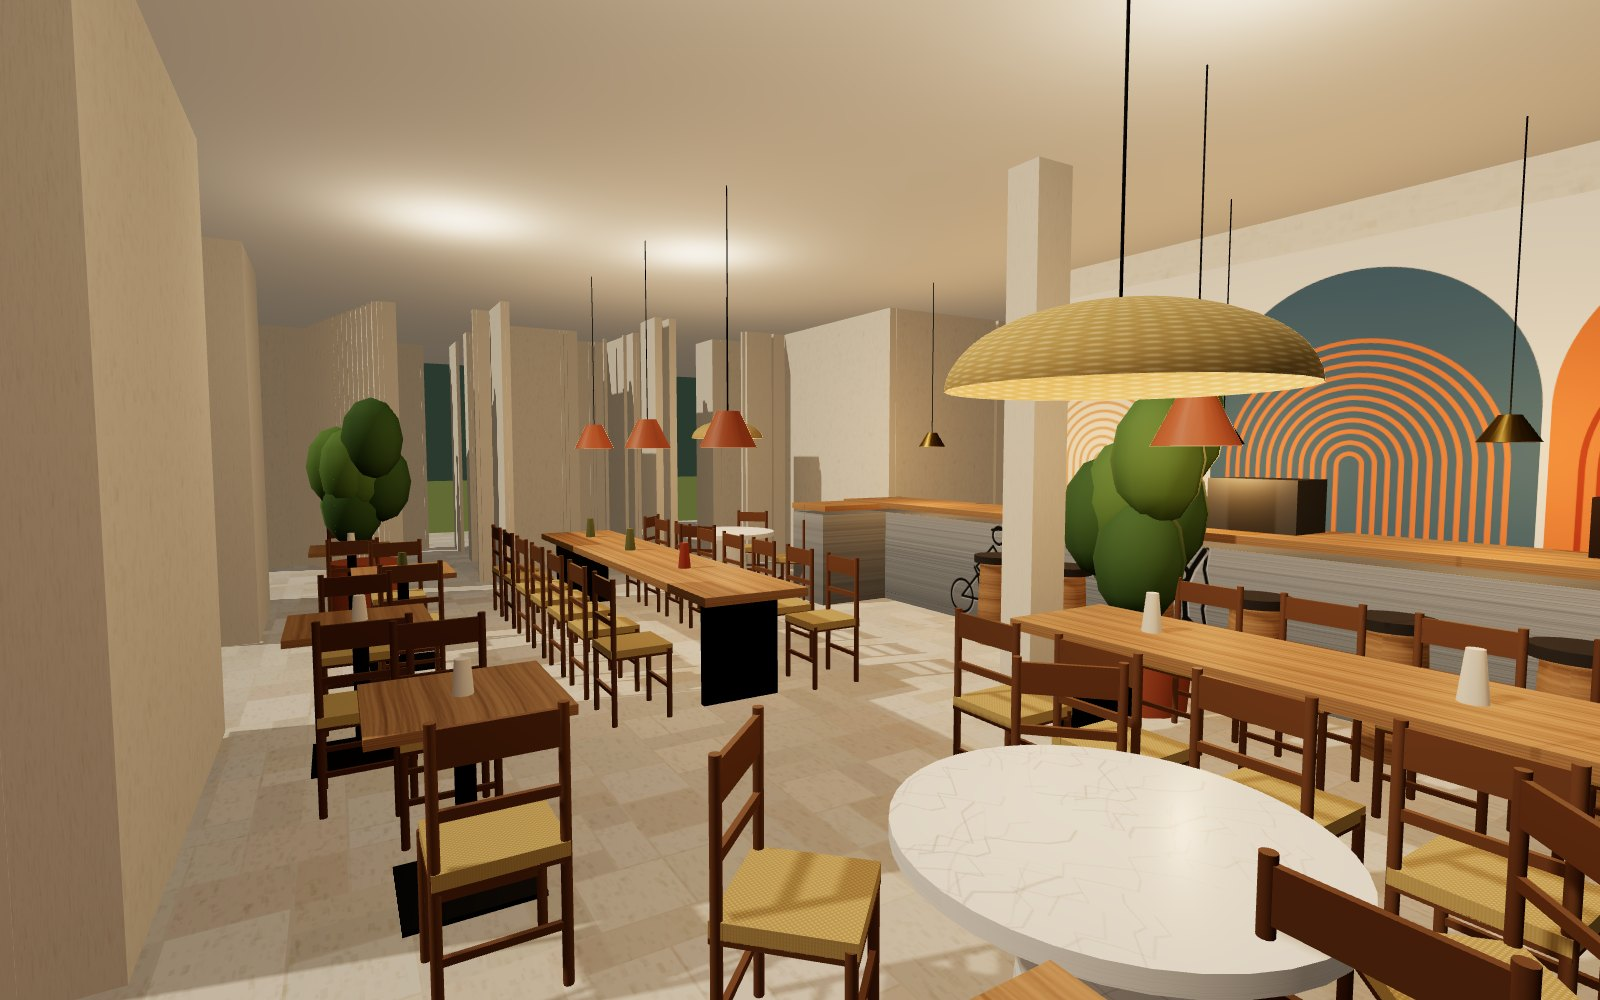
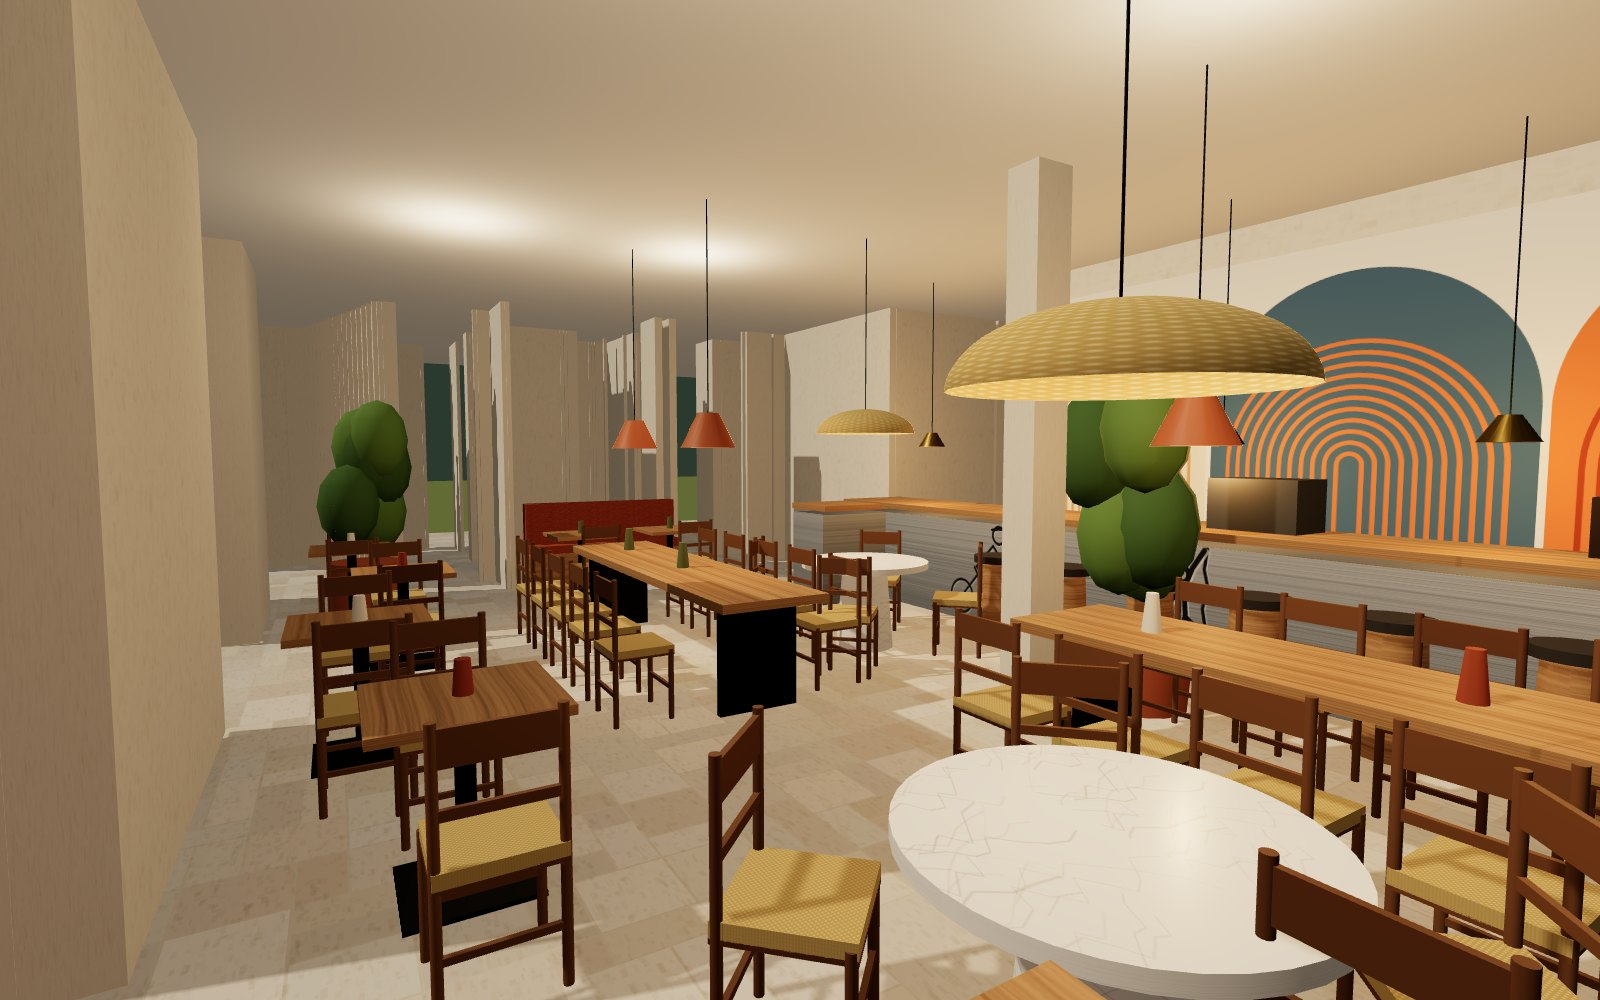
Sala: seconda panca in velluto terracotta sul muro ovest
Claude-Session: https://claude.ai/code/session_01QZXxqty357DcebAAL5Vpaf

diff --git a/render-3d/sala-tavoli-misti/sorgente/pianoterra.js b/render-3d/sala-tavoli-misti/sorgente/pianoterra.js
@@ -373,10 +373,10 @@ else { box(P(210), P(1450), HS, HS + 0.06, P(840), P(1110), M('#e9e2d6', { trans
     for (let x = x0 + 0.35; x < x1 - 0.2; x += 0.62) { straw(x, z0 - 0.35, 0, 0); straw(x, z1 + 0.35, Math.PI, 0); }
     for (let x = x0 + 0.6; x < x1 - 0.4; x += 1.3) cyl(x, (z0 + z1) / 2, 0.05, 0.78, 0.98, M(tc[Math.floor(rnd() * 3)]), 12, 0.03);
     for (let x = x0 + 0.8; x < x1; x += 1.6) { cyl(x, (z0 + z1) / 2, 0.004, 1.95, HS, M('#111'), 6); const sh = new THREE.Mesh(new THREE.CylinderGeometry(0.08, 0.2, 0.25, 24, 1, true), M('#b9673d', { side: THREE.DoubleSide, roughness: 0.5 })); sh.position.set(x, 1.85, (z0 + z1) / 2); scene.add(sh); const l = new THREE.PointLight('#ffc98a', 1.0, 0, 2); l.position.set(x, 1.7, (z0 + z1) / 2); scene.add(l); } };
-  longT(690, 1040, 565, 625); longT(1150, 1390, 470, 530);
+  longT(790, 1060, 565, 625); longT(1150, 1390, 470, 530);
   const roundT = (px, pz) => { const x = P(px), z = P(pz); roundTable(x, z, 0.55, 0.75, marble); for (let i = 0; i < 4; i++) { const a = i * Math.PI / 2 + Math.PI / 4; straw(x + Math.cos(a) * 0.8, z + Math.sin(a) * 0.8, Math.atan2(-Math.cos(a), -Math.sin(a)), 0); }
     cyl(x, z, 0.004, 1.9, HS, M('#111'), 6); const s = new THREE.Mesh(new THREE.SphereGeometry(0.42, 24, 12, 0, Math.PI * 2, 0, Math.PI / 2), T(texStraw, { side: THREE.DoubleSide })); s.scale.y = 0.5; s.position.set(x, 1.85, z); scene.add(s); const l = new THREE.PointLight('#ffcf94', 1.2, 0, 2); l.position.set(x, 1.7, z); scene.add(l); };
-  roundT(735, 465); roundT(1290, 650);
+  roundT(960, 470); roundT(1290, 650);
   const smallT = (px, pz, rotChairs) => { const x = P(px), z = P(pz); box(x - 0.35, x + 0.35, 0.72, 0.76, z - 0.35, z + 0.35, oakM); cyl(x, z, 0.04, 0, 0.72, ironM, 8); box(x - 0.25, x + 0.25, 0, 0.02, z - 0.25, z + 0.25, ironM);
     if (rotChairs) { straw(x - 0.6, z, Math.PI / 2, 0); straw(x + 0.6, z, -Math.PI / 2, 0); } else { straw(x, z - 0.6, 0, 0); }
     cyl(x, z, 0.04, 0.76, 0.9, M(tc[Math.floor(rnd() * 3)]), 10, 0.03); };
@@ -384,6 +384,9 @@ else { box(P(210), P(1450), HS, HS + 0.06, P(840), P(1110), M('#e9e2d6', { trans
   // banquette along the east wall with two little tables
   const bq = boucle('#7f8f4e'); box(P(1388), P(1424), 0, 0.45, P(690), P(820), oakM); box(P(1390), P(1424), 0.45, 0.55, P(692), P(818), bq); box(P(1410), P(1424), 0.55, 1.05, P(692), P(818), bq);
   smallT(1340, 720, false); smallT(1340, 790, false);
+  // second banquette on the west wall (terracotta velvet), two little tables with a chair facing it
+  { const bq2 = boucle('#a8502c'); box(P(604), P(640), 0, 0.45, P(470), P(625), oakM); box(P(604), P(638), 0.45, 0.55, P(472), P(623), bq2); box(P(604), P(618), 0.55, 1.05, P(472), P(623), bq2);
+    for (const pz of [505, 590]) { const x = P(690), z = P(pz); box(x - 0.35, x + 0.35, 0.72, 0.76, z - 0.35, z + 0.35, oakM); cyl(x, z, 0.04, 0, 0.72, ironM, 8); straw(x + 0.6, z, -Math.PI / 2, 0); cyl(x, z, 0.04, 0.76, 0.9, M('#6f7448'), 10, 0.03); } }
   for (const [x, z] of [[P(1135), P(418)], [P(660), P(760)]]) { cyl(x, z, 0.3, 0, 0.55, M('#b9673d'), 16, 0.34); for (let i = 0; i < 7; i++) { const lf = new THREE.Mesh(new THREE.SphereGeometry(0.28, 8, 6), M(i % 2 ? '#4f6e3a' : '#6a8a45')); lf.scale.y = 1.5; lf.position.set(x + (rnd() - 0.5) * 0.5, 1.0 + rnd() * 0.9, z + (rnd() - 0.5) * 0.5); scene.add(lf); } } }
 // PORTICO as lounge: few long floor cushions, dance floor flush with the floor, piano, fireplace
 { const pm = [boucle('#a3262a'), boucle('#2f4a6e'), boucle('#1f5c5a'), boucle('#d98a2b')];
@@ -400,7 +403,7 @@ const sun = new THREE.DirectionalLight('#fff0d8', AERIAL ? 2.4 : 1.4); sun.posit
 sun.castShadow = true; sun.shadow.mapSize.set(4096, 4096); Object.assign(sun.shadow.camera, { left: -16, right: 16, top: 16, bottom: -16, near: 1, far: 60 }); sun.shadow.bias = -0.0005; scene.add(sun);
 if (!AERIAL) for (const [x, z] of [[11, 7], [16, 7], [11, 9], [16, 9]]) { const l = new THREE.PointLight('#ffe2b8', 1.6, 0, 2); l.position.set(x, 3.0, z); scene.add(l); }
 scene.background = new THREE.Color('#2b3a2f');
-const CAMS = { sala2: [[11.6, 1.75, 5.0], [15.5, 0.9, 9.8], 68], salatop: [[13.0, 11.5, 11.5], [12.8, 0, 6.8], 48], alto: [[9.3, 27, 17.5], [9.3, 0, 7.4], 42], bar: [[14.2, 1.6, 9.6], [14.2, 1.4, 3.6], 68], sala: [[17.6, 1.7, 9.9], [9.5, 1.1, 5.0], 66], portico: [[3.6, 1.6, 13.6], [14, 0.9, 12.6], 64] };
+const CAMS = { panca2: [[10.8, 1.6, 8.2], [7.8, 0.7, 6.9], 66], sala2: [[11.6, 1.75, 5.0], [15.5, 0.9, 9.8], 68], salatop: [[13.0, 11.5, 11.5], [12.8, 0, 6.8], 48], alto: [[9.3, 27, 17.5], [9.3, 0, 7.4], 42], bar: [[14.2, 1.6, 9.6], [14.2, 1.4, 3.6], 68], sala: [[17.6, 1.7, 9.9], [9.5, 1.1, 5.0], 66], portico: [[3.6, 1.6, 13.6], [14, 0.9, 12.6], 64] };
 const k = CAMS[VIEW] || CAMS.alto;
 const camera = new THREE.PerspectiveCamera(k[2], W / H, 0.05, 200); camera.position.set(...k[0]); camera.lookAt(...k[1]);
 renderer.render(scene, camera);
